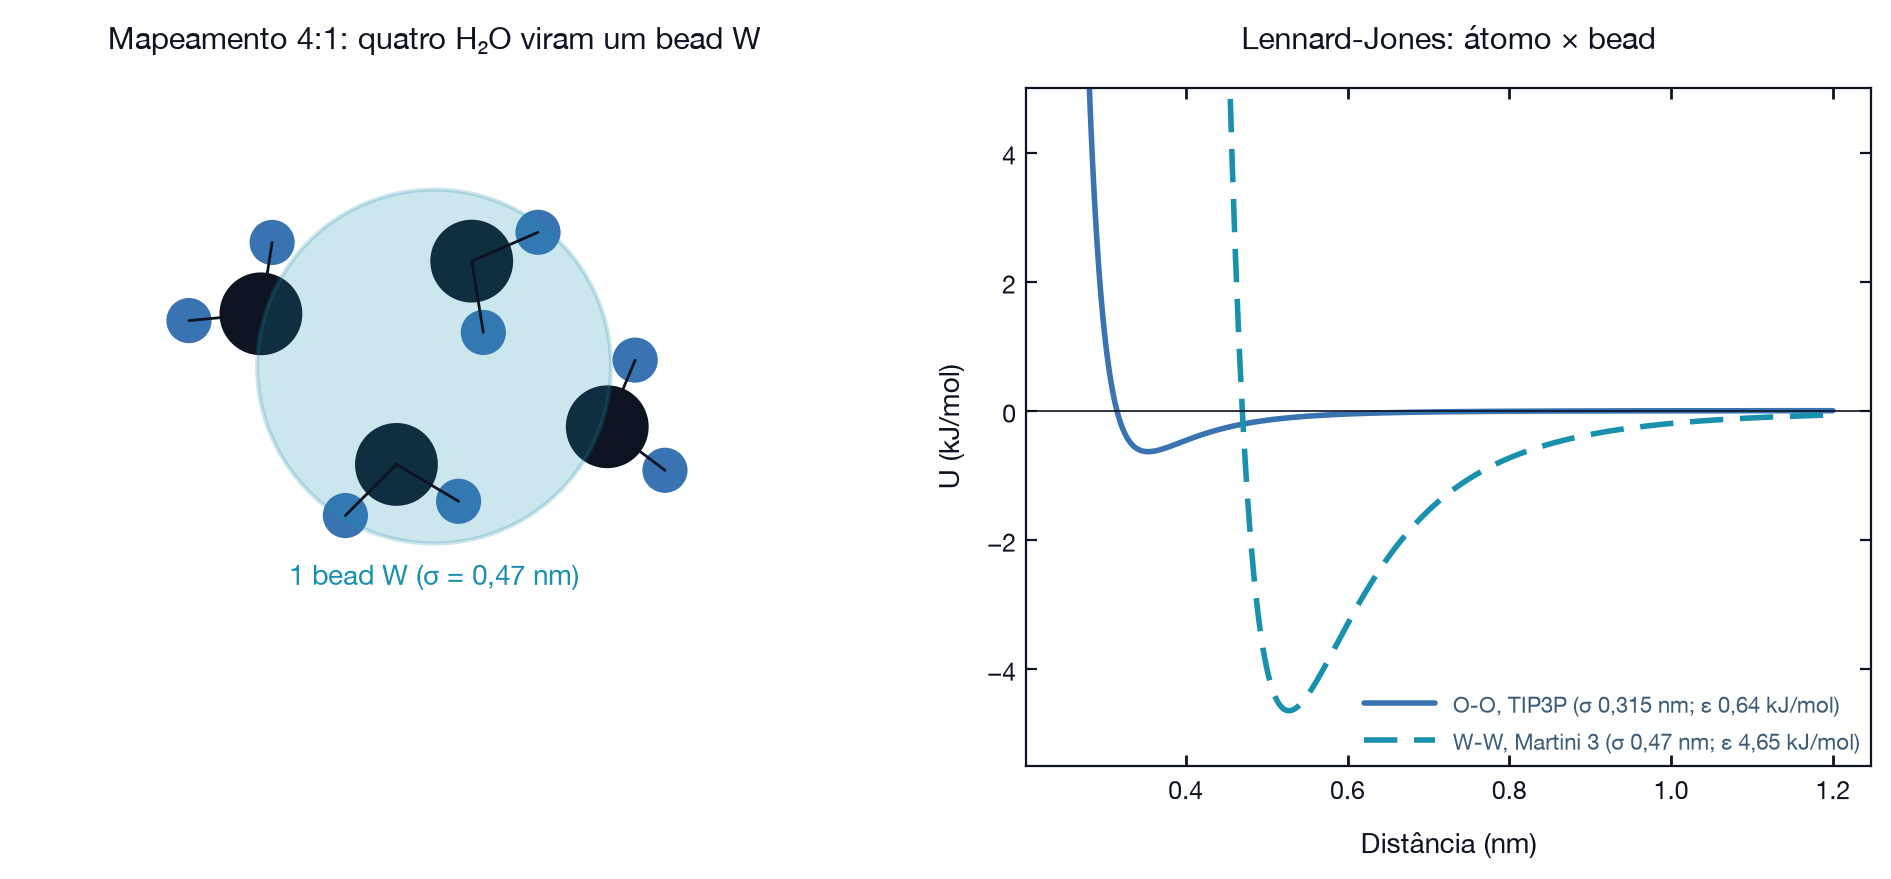
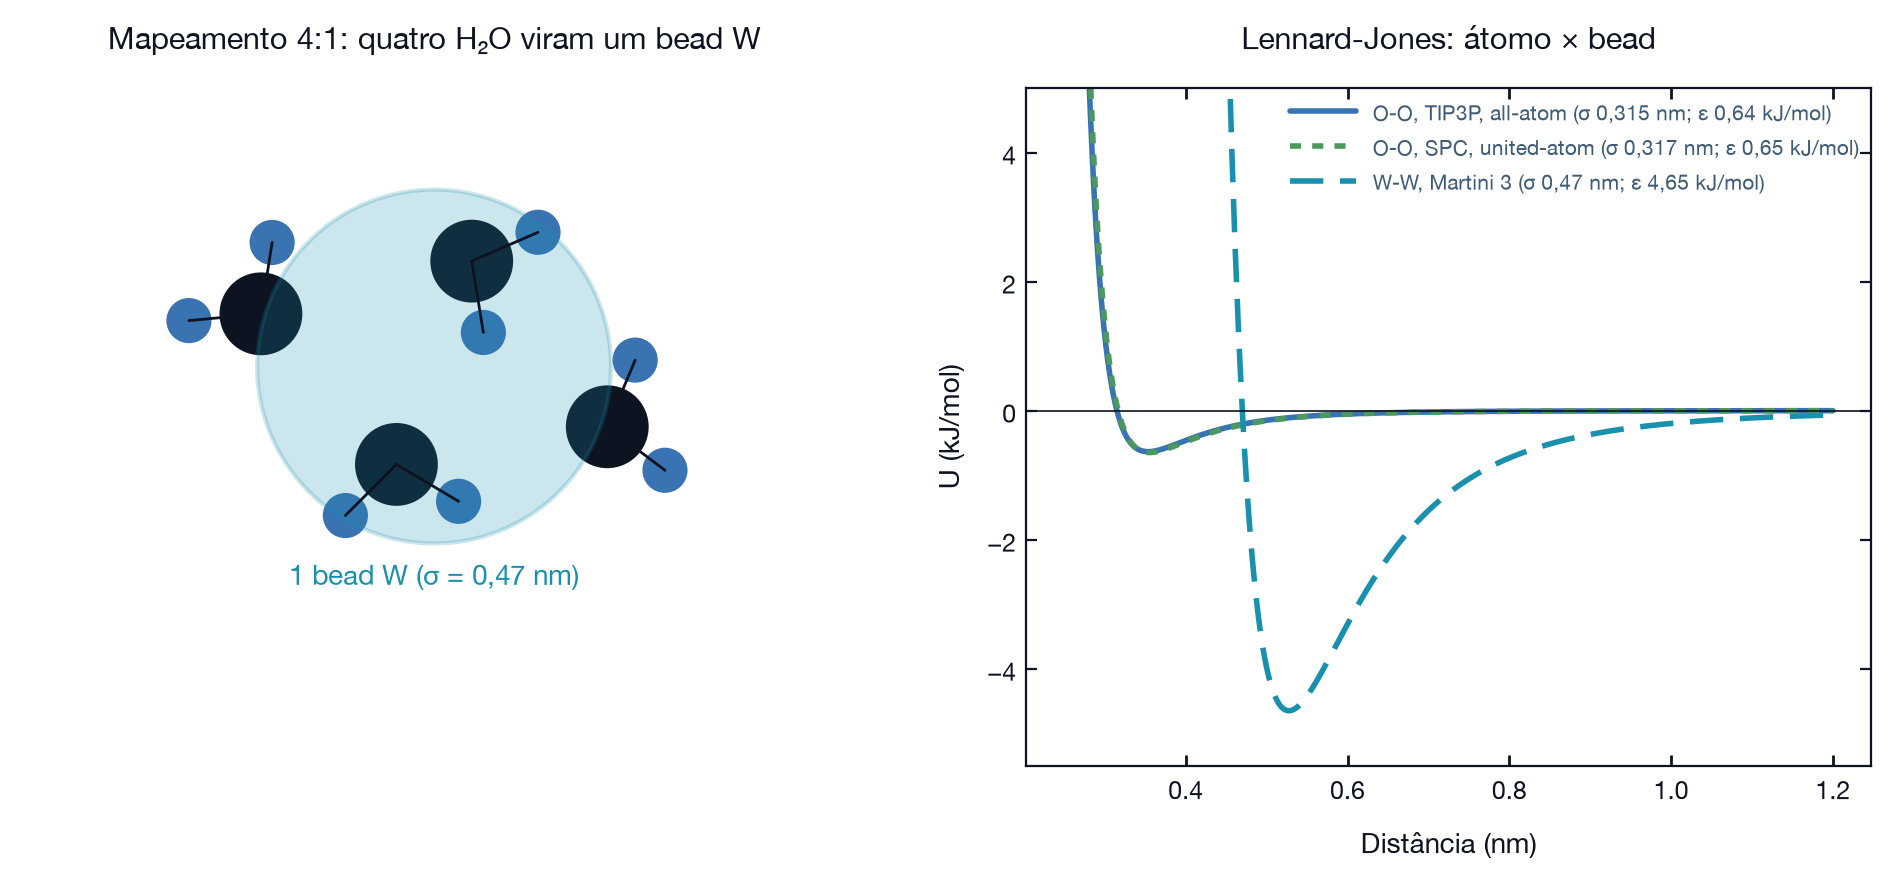
Add united-atom wherever all-atom appears in figures

diff --git a/tools/make_figures.py b/tools/make_figures.py
@@ -110,7 +110,7 @@ def fig_md_loop():
     ax.text(0, 0.62, '$t$', color=INK, fontsize=8.5, ha='center')
     ax.text(0.9, 0.62, '$t+\\Delta t$', color=INK, fontsize=8.5, ha='center', alpha=0.7)
     ax.text(0, -1.05, 'repete a cada passo $\\Delta t$', ha='center', va='center', fontsize=10, color=INK)
-    ax.text(0, -1.42, 'AA 2 fs  ·  Martini 20 fs', ha='center', va='center', fontsize=9, color=INK, alpha=0.7)
+    ax.text(0, -1.42, 'AA 2 fs  ·  UA 2 fs  ·  Martini 20 fs', ha='center', va='center', fontsize=9, color=INK, alpha=0.7)
     ax.set_title('Ciclo de integração da dinâmica molecular (leap-frog)')
     save(fig, 'fund_ciclo_md.png')
 
@@ -305,12 +305,13 @@ def fig_mapping_lj():
     ax.set_xlim(-0.5, 0.6); ax.set_ylim(-0.4, 0.5); ax.set_aspect('equal'); frame_off(ax)
     ax.set_title('Mapeamento 4:1: quatro H₂O viram um bead W')
     ax = axes[1]; r = np.linspace(0.25, 1.2, 500)
-    for (lab, s, e, col, ls) in (('O-O, TIP3P (σ 0,315 nm; ε 0,64 kJ/mol)', 0.315, 0.636, C[0], '-'),
+    for (lab, s, e, col, ls) in (('O-O, TIP3P, all-atom (σ 0,315 nm; ε 0,64 kJ/mol)', 0.315, 0.636, C[0], '-'),
+                                 ('O-O, SPC, united-atom (σ 0,317 nm; ε 0,65 kJ/mol)', 0.3166, 0.650, C[3], (0, (2, 2))),
                                  ('W-W, Martini 3 (σ 0,47 nm; ε 4,65 kJ/mol)', 0.47, 4.65, C[6], (0, (6, 3)))):
         ax.plot(r, 4 * e * ((s / r) ** 12 - (s / r) ** 6), color=col, ls=ls, label=lab)
     ax.axhline(0, color=INK, lw=0.6)
     ax.set(ylim=(-5.5, 5), xlabel='Distância (nm)', ylabel='U (kJ/mol)', title='Lennard-Jones: átomo × bead')
-    ax.legend(loc='lower right', fontsize=8)
+    ax.legend(loc='upper right', fontsize=7.5, frameon=False, borderaxespad=0.6)
     save(fig, 'fund_mapeamento_lj.png')
 
 
@@ -342,7 +343,9 @@ def fig_landscape_2d():
 def fig_clocks():
     """Dinamica de Langevin superamortecida em 1D: mesma barreira, rugosidade diferente."""
     rng = np.random.default_rng(11)
-    kT, dt, n = 1.0, 2e-4, 400000
+    kT, dt, n = 1.0, 2e-4, 1000000
+    # mesmo ruido nas quatro paisagens: a diferenca nas travessias vem so da forma da paisagem
+    noise = rng.standard_normal(n) * np.sqrt(2 * kT * dt)
 
     def U(x, rough, fine=0.0):
         return (3 * (x ** 2 - 1) ** 2 * (0.6 if rough == 0 else 1) + rough * (0.9 * np.sin(23 * x) + 0.6 * np.sin(41 * x + 1.3))
@@ -353,7 +356,6 @@ def fig_clocks():
 
     def run(rough, fine):
         x = np.empty(n); x[0] = -1.0
-        noise = rng.standard_normal(n) * np.sqrt(2 * kT * dt)
         for i in range(1, n):
             x[i] = x[i - 1] - dU(x[i - 1], rough, fine) * dt + noise[i]
         return x
@@ -369,19 +371,19 @@ def fig_clocks():
 
     xs = np.linspace(-1.7, 1.7, 600)
     traj = {'QM (a mais rugosa)': (1.0, 1.0, C[2]), 'All-atom (rugosa)': (1.0, 0.0, C[0]),
-            'Coarse-grained (lisa)': (0.0, 0.0, C[1])}
-    fig = plt.figure(figsize=(13, 9.0))
-    gs = fig.add_gridspec(3, 2, width_ratios=[1, 2.4], hspace=0.55, wspace=0.18)
+            'United-atom (menos rugosa)': (0.55, 0.0, C[3]), 'Coarse-grained (lisa)': (0.0, 0.0, C[1])}
+    fig = plt.figure(figsize=(13, 11.8))
+    gs = fig.add_gridspec(4, 2, width_ratios=[1, 2.4], hspace=0.6, wspace=0.18)
     for k, (name, (rough, fine, col)) in enumerate(traj.items()):
         axl = fig.add_subplot(gs[k, 0]); axr = fig.add_subplot(gs[k, 1])
         u = U(xs, rough, fine)
         axl.plot(xs, u - u.min(), color=col)
         axl.set(title=name, xlabel='x', ylabel='U / kT', ylim=(0, 8))
         x = run(rough, fine)
-        steps = np.arange(n)[::40]
-        axr.plot(steps, x[::40], color=col, lw=0.5)
+        steps = np.arange(n)[::100] / 1e6
+        axr.plot(steps, x[::100], color=col, lw=0.5)
         axr.axhline(0, color=INK, lw=0.5, ls=(0, (4, 3)))
-        axr.set(ylabel='x', xlabel='Passos de integração' if k == len(traj) - 1 else None, ylim=(-1.8, 1.8),
+        axr.set(ylabel='x', xlabel='Passos de integração (milhões)' if k == len(traj) - 1 else None, ylim=(-1.8, 1.8),
                 title=f'{crossings(x)} travessias da barreira em {n:,} passos'.replace(',', ' '))
     fig.suptitle('Mesmo número de passos, relógios diferentes (modelo de brinquedo, dinâmica de Langevin)',
                  y=1.0, fontsize=11)
@@ -389,21 +391,28 @@ def fig_clocks():
 
 
 # ---------------------------------------------------------------- 10. mapeamento de varios residuos
-def fig_residue_mapping(aa, cg, picks=(('GLY', 10), ('ALA', 28), ('LEU', 8), ('LYS', 6), ('ARG', 42), ('PHE', 45), ('TYR', 59))):
-    fig, axes = plt.subplots(1, len(picks), figsize=(2.6 * len(picks), 3.6))
-    for ax, (name, resid) in zip(axes, picks):
+def fig_residue_mapping(aa, ua, cg, picks=(('GLY', 10), ('ALA', 28), ('LEU', 8), ('LYS', 6), ('ARG', 42), ('PHE', 45), ('TYR', 59))):
+    fig, axes = plt.subplots(2, len(picks), figsize=(2.6 * len(picks), 6.6))
+    for k, (name, resid) in enumerate(picks):
         A = [(n, x) for n, x in read_res(aa, resid, 'gro')]
+        U = [(n, x) for n, x in read_res(ua, resid, 'gro')]
         G = read_res(cg, resid, 'pdb')
         heavy = np.array([x for n, x in A if not n.startswith('H')])
-        PA, PG = project(A, heavy), project(G, heavy)
-        for (n, _), p in zip(G, PG):
-            ax.add_patch(Circle(p, 2.35 if n == 'BB' else 2.0, color=C[1] if n == 'BB' else C[2], alpha=0.35, lw=0))
-        for (n, _), p in zip(A, PA):
-            ax.scatter(*p, s=12 if n.startswith('H') else 34, color=C[0] if n.startswith('H') else INK, zorder=3, lw=0)
-        ax.set_xlim(-6.5, 6.5); ax.set_ylim(-5, 5); ax.set_aspect('equal'); frame_off(ax)
-        nh = sum(1 for n, _ in A if not n.startswith('H'))
-        ax.set_title(f'{name}{resid}\n{nh} pesados, {len(A)} átomos\n{len(G)} bead' + ('s' if len(G) > 1 else ''), fontsize=9)
-    fig.suptitle('Mapeamento Martini 3 de resíduos da ubiquitina: amarelo BB, magenta cadeia lateral', y=0.98, fontsize=11)
+        PG = project(G, heavy)
+        for row, (atoms, label) in enumerate(((A, 'átomos'), (U, 'partículas'))):
+            ax = axes[row, k]
+            for (n, _), p in zip(G, PG):
+                ax.add_patch(Circle(p, 2.35 if n == 'BB' else 2.0, color=C[1] if n == 'BB' else C[2], alpha=0.35, lw=0))
+            for (n, _), p in zip(atoms, project(atoms, heavy)):
+                ax.scatter(*p, s=12 if n.startswith('H') else 34, color=C[0] if n.startswith('H') else INK, zorder=3, lw=0)
+            ax.set_xlim(-6.5, 6.5); ax.set_ylim(-5, 5); ax.set_aspect('equal'); frame_off(ax)
+            nH = sum(1 for n, _ in atoms if n.startswith('H'))
+            head = f'{name}{resid}\n' if row == 0 else ''
+            ax.set_title(f'{head}{len(atoms)} {label} ({nH} H)\n{len(G)} bead' + ('s' if len(G) > 1 else ''), fontsize=9)
+    axes[0, 0].text(-0.12, 0.5, 'All-atom', transform=axes[0, 0].transAxes, rotation=90, ha='center', va='center', fontsize=10)
+    axes[1, 0].text(-0.12, 0.5, 'United-atom', transform=axes[1, 0].transAxes, rotation=90, ha='center', va='center', fontsize=10)
+    fig.suptitle('Mapeamento Martini 3 de resíduos da ubiquitina sobre all-atom e united-atom: '
+                 'amarelo BB, magenta cadeia lateral, azul hidrogênios', y=1.0, fontsize=11)
     save(fig, 'fund_mapeamento_residuos.png')
 
 
@@ -857,7 +866,7 @@ def main():
     OUT.mkdir(exist_ok=True)
     fig_md_loop(); fig_force_field(); fig_timestep(); fig_pbc()
     fig_resolutions(a.aa, a.ua, a.cg); fig_scales(); fig_mapping_lj(); fig_landscape_2d(); fig_clocks()
-    fig_residue_mapping(a.aa, a.cg); fig_em_vs_md(); fig_cost(); fig_funnel(); fig_cell_membranes()
+    fig_residue_mapping(a.aa, a.ua, a.cg); fig_em_vs_md(); fig_cost(); fig_funnel(); fig_cell_membranes()
     fig_raft_domains(); fig_unsaturation(); fig_membrane_proteins(); fig_amp_mechanisms()
     if a.mem_xtc:
         fig_self_assembly(a.mem_xtc, a.mem_gro)

diff --git a/tools/build_martini_notebook.py b/tools/build_martini_notebook.py
@@ -448,7 +448,7 @@ Numa paisagem lisa, a mesma barreira é cruzada mais vezes no mesmo número de p
 
 ![Relógios diferentes](https://raw.githubusercontent.com/madsondeluna/curso-dinamica-molecular-202x/main/imagens/fund_relogios.png)
 
-No modelo de brinquedo, QM e all-atom cruzam a barreira o mesmo número de vezes (9 em 400 000 passos) e o CG, 19: a rugosidade extra da QM é fina e pequena perto de kT. A diferença da QM está no custo de cada passo, que resolve os elétrons.
+Com o mesmo ruído térmico nas quatro paisagens, as travessias da barreira em 1 milhão de passos caem de 52 no coarse-grained para 32 no united-atom, 18 no all-atom e 11 na QM: cada camada de rugosidade desacelera o relógio. Na QM, cada passo também custa muito mais, porque resolve os elétrons.
 ''')
 
 md('''
@@ -1121,7 +1121,7 @@ O acoplamento de pressão é **isotrópico**: ainda não há bicamada, logo não
 
 ![Relógios diferentes](https://raw.githubusercontent.com/madsondeluna/curso-dinamica-molecular-202x/main/imagens/fund_relogios.png)
 
-No modelo de brinquedo, QM e all-atom cruzam a barreira o mesmo número de vezes (9 em 400 000 passos) e o CG, 19: a rugosidade extra da QM é fina e pequena perto de kT. A diferença da QM está no custo de cada passo, que resolve os elétrons.
+Com o mesmo ruído térmico nas quatro paisagens, as travessias da barreira em 1 milhão de passos caem de 52 no coarse-grained para 32 no united-atom, 18 no all-atom e 11 na QM: cada camada de rugosidade desacelera o relógio. Na QM, cada passo também custa muito mais, porque resolve os elétrons.
 ''')
 
 code('''

diff --git a/README.md b/README.md
@@ -159,7 +159,7 @@ Numa paisagem lisa, a mesma barreira é cruzada mais vezes no mesmo número de p
 
 ![Relógios diferentes](imagens/fund_relogios.png)
 
-No modelo de brinquedo, QM e all-atom cruzam a barreira o mesmo número de vezes (9 em 400 000 passos) e o CG, 19: a rugosidade extra da QM é fina e pequena perto de kT. A diferença da QM está no custo de cada passo, que resolve os elétrons.
+Com o mesmo ruído térmico nas quatro paisagens, as travessias da barreira em 1 milhão de passos caem de 52 no coarse-grained para 32 no united-atom, 18 no all-atom e 11 na QM: cada camada de rugosidade desacelera o relógio. Na QM, cada passo também custa muito mais, porque resolve os elétrons.
 
 | Consequência no CG | Efeito |
 |--------------------|--------|
